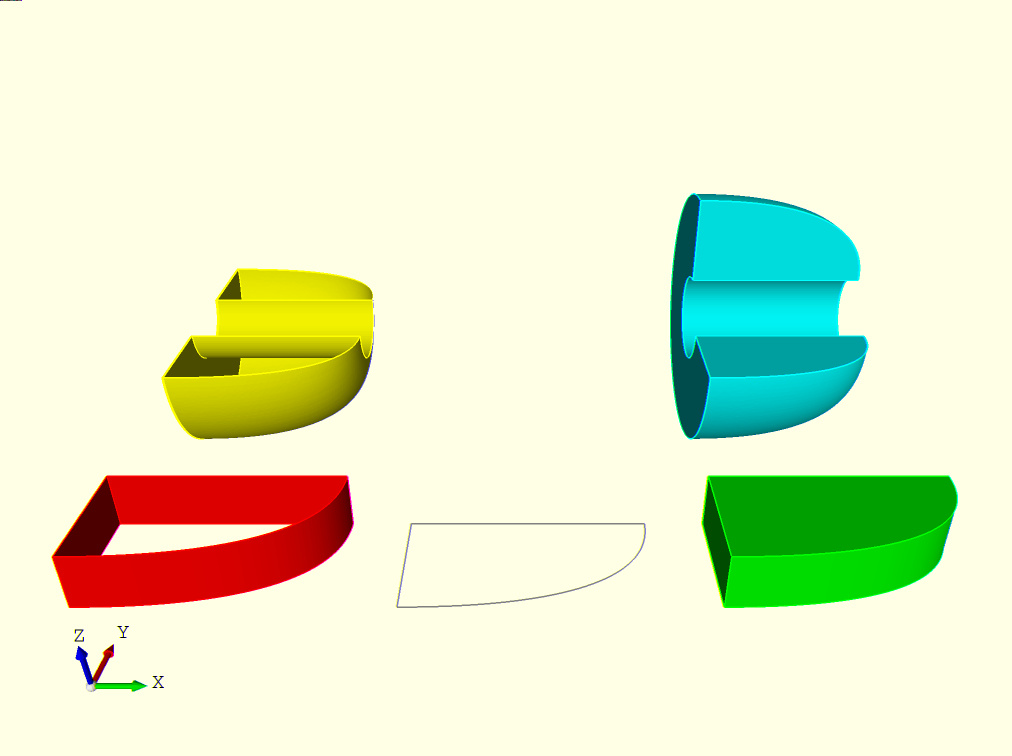
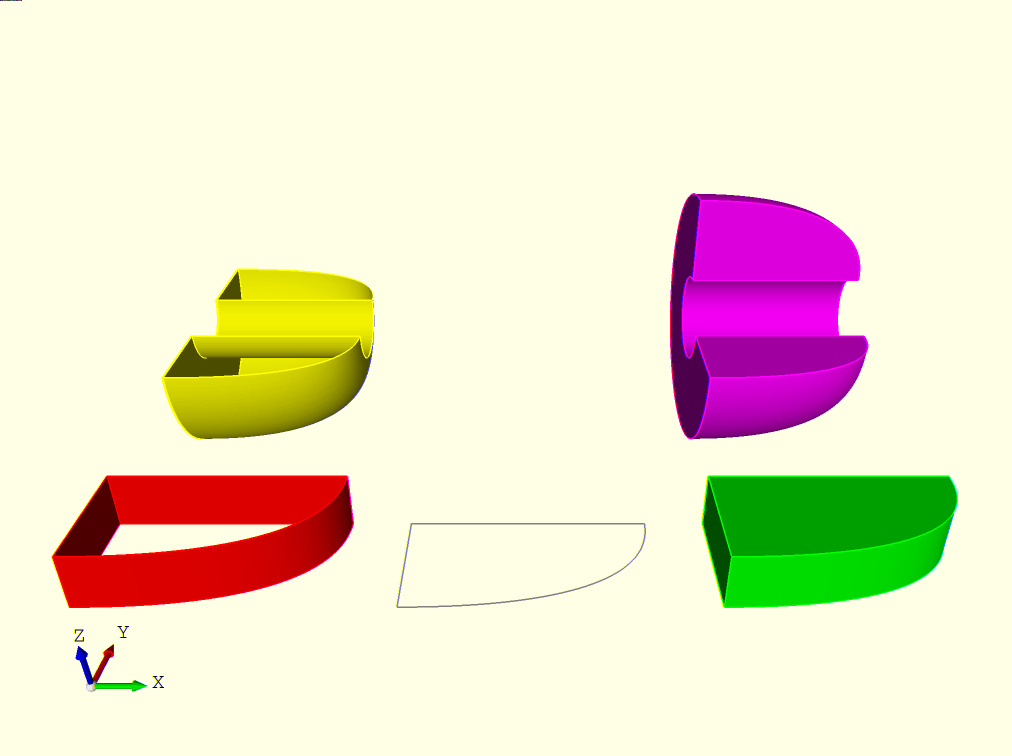
Fixed bug in colors. Added shells doc.

Changed region(s): [[0.6433, 0.2434, 0.8577, 0.578]]

diff --git a/mkdoc/src/21_shells.py b/mkdoc/src/21_shells.py
@@ -1,0 +1,75 @@
+import PyCad
+
+#
+# flat shell
+#
+line=PyCad.gen.line_3d([
+	PyCad.Vec3(0, 0, 0), 
+	PyCad.Vec3(-2, 0, 0), 
+	PyCad.Vec3(-4, 3, 0), 
+	PyCad.Vec3(-4, 6, 0), 
+	PyCad.Vec3(3, 5, 0)])
+bezier=PyCad.gen.bezier_3d([
+	PyCad.Vec3(0, 0, 0), 
+	PyCad.Vec3(3, 0, 0), 
+	PyCad.Vec3(3, 5, 0)])
+
+outline1=PyCad.op.fuse(line, bezier).translate(-5, 5, 0)
+outline1.setColor(PyCad.colors.green)
+
+shell1=PyCad.op.wireToShell(outline1).translate(0, -7, 0)
+shell1.setColor(PyCad.colors.green)
+
+#
+# curved shell
+#
+
+bezier_points=[
+	PyCad.Vec3(0, 0, 0), 
+	PyCad.Vec3(0, 5, 0), 
+	PyCad.Vec3(4, 4, 6), 
+	PyCad.Vec3(8, 5, 0), 
+	PyCad.Vec3(8, 0, 0)]
+
+bezier=PyCad.gen.bezier_3d(bezier_points)
+
+outline2=PyCad.op.fuse(bezier, bezier.copy().mirror(0, 1, 0).mirror(0, 0, 1))
+outline2.setColor(PyCad.colors.red)
+
+support2=PyCad.gen.bezier_3d([
+	bezier_points[0], 
+	(bezier_points[0]+bezier_points[-1])*0.5+PyCad.Vec3(0, -2, 5),
+	bezier_points[-1]])
+
+support2.setColor(PyCad.colors.yellow)
+
+# "3" is the degree of the interpolated bspline surface
+# multiple supports can be specified. The specified outlines must enclose the shell. 
+shell2=PyCad.op.filling(2, [outline2], [support2])
+
+# colors can be created this way, the last parameter is 
+# optional and defines transparency. 
+shell2.setColor(PyCad.Color(0, 1, 1, 0.25))
+
+# move elements to improve visibility
+for i in [outline2, support2, shell2]:
+	i.rotate(0, 0, 90)
+	i.translate(5, -3, 0)
+
+
+result=[outline1, shell1, outline2, support2, shell2]
+
+## SNIP
+
+doc="""
+## Shells 
+
+Planar wires can be closed to a shell with PyCad.op.wireToShell. 
+
+PyCad.op.filling can be used for non-planar wires. 
+It also allows to specify support wires that define the curvature. 
+
+![Picture](21_shells.jpg)
+
+[CODE]
+"""

diff --git a/cpplib/color.h b/cpplib/color.h
@@ -26,8 +26,8 @@ namespace PyCadCpp
 		const Color blue=Color(0, 0, 1);
 		
 		const Color yellow=Color(1, 1, 0);
-		const Color cyan=Color(1, 0, 1);
-		const Color pink=Color(0, 1, 1);
+		const Color cyan=Color(0, 1, 1);
+		const Color pink=Color(1, 0, 1);
 		
 	}
 }

diff --git a/doc/examples/samples.md b/doc/examples/samples.md
@@ -84,6 +84,81 @@ result=[line, bezier, fuse, helix]
 
 
 
+## Shells 
+
+Planar wires can be closed to a shell with PyCad.op.wireToShell. 
+
+PyCad.op.filling can be used for non-planar wires. 
+It also allows to specify support wires that define the curvature. 
+
+![Picture](21_shells.jpg)
+
+```python
+import PyCad
+
+#
+# flat shell
+#
+line=PyCad.gen.line_3d([
+	PyCad.Vec3(0, 0, 0), 
+	PyCad.Vec3(-2, 0, 0), 
+	PyCad.Vec3(-4, 3, 0), 
+	PyCad.Vec3(-4, 6, 0), 
+	PyCad.Vec3(3, 5, 0)])
+bezier=PyCad.gen.bezier_3d([
+	PyCad.Vec3(0, 0, 0), 
+	PyCad.Vec3(3, 0, 0), 
+	PyCad.Vec3(3, 5, 0)])
+
+outline1=PyCad.op.fuse(line, bezier).translate(-5, 5, 0)
+outline1.setColor(PyCad.colors.green)
+
+shell1=PyCad.op.wireToShell(outline1).translate(0, -7, 0)
+shell1.setColor(PyCad.colors.green)
+
+#
+# curved shell
+#
+
+bezier_points=[
+	PyCad.Vec3(0, 0, 0), 
+	PyCad.Vec3(0, 5, 0), 
+	PyCad.Vec3(4, 4, 6), 
+	PyCad.Vec3(8, 5, 0), 
+	PyCad.Vec3(8, 0, 0)]
+
+bezier=PyCad.gen.bezier_3d(bezier_points)
+
+outline2=PyCad.op.fuse(bezier, bezier.copy().mirror(0, 1, 0).mirror(0, 0, 1))
+outline2.setColor(PyCad.colors.red)
+
+support2=PyCad.gen.bezier_3d([
+	bezier_points[0], 
+	(bezier_points[0]+bezier_points[-1])*0.5+PyCad.Vec3(0, -2, 5),
+	bezier_points[-1]])
+
+support2.setColor(PyCad.colors.yellow)
+
+# "3" is the degree of the interpolated bspline surface
+# multiple supports can be specified. The specified outlines must enclose the shell. 
+shell2=PyCad.op.filling(2, [outline2], [support2])
+
+# colors can be created this way, the last parameter is 
+# optional and defines transparency. 
+shell2.setColor(PyCad.Color(0, 1, 1, 0.25))
+
+# move elements to improve visibility
+for i in [outline2, support2, shell2]:
+	i.rotate(0, 0, 90)
+	i.translate(5, -3, 0)
+
+
+result=[outline1, shell1, outline2, support2, shell2]
+
+```
+
+
+
 ## Extrusion
 
 ![Picture](30_extrusion.jpg)
